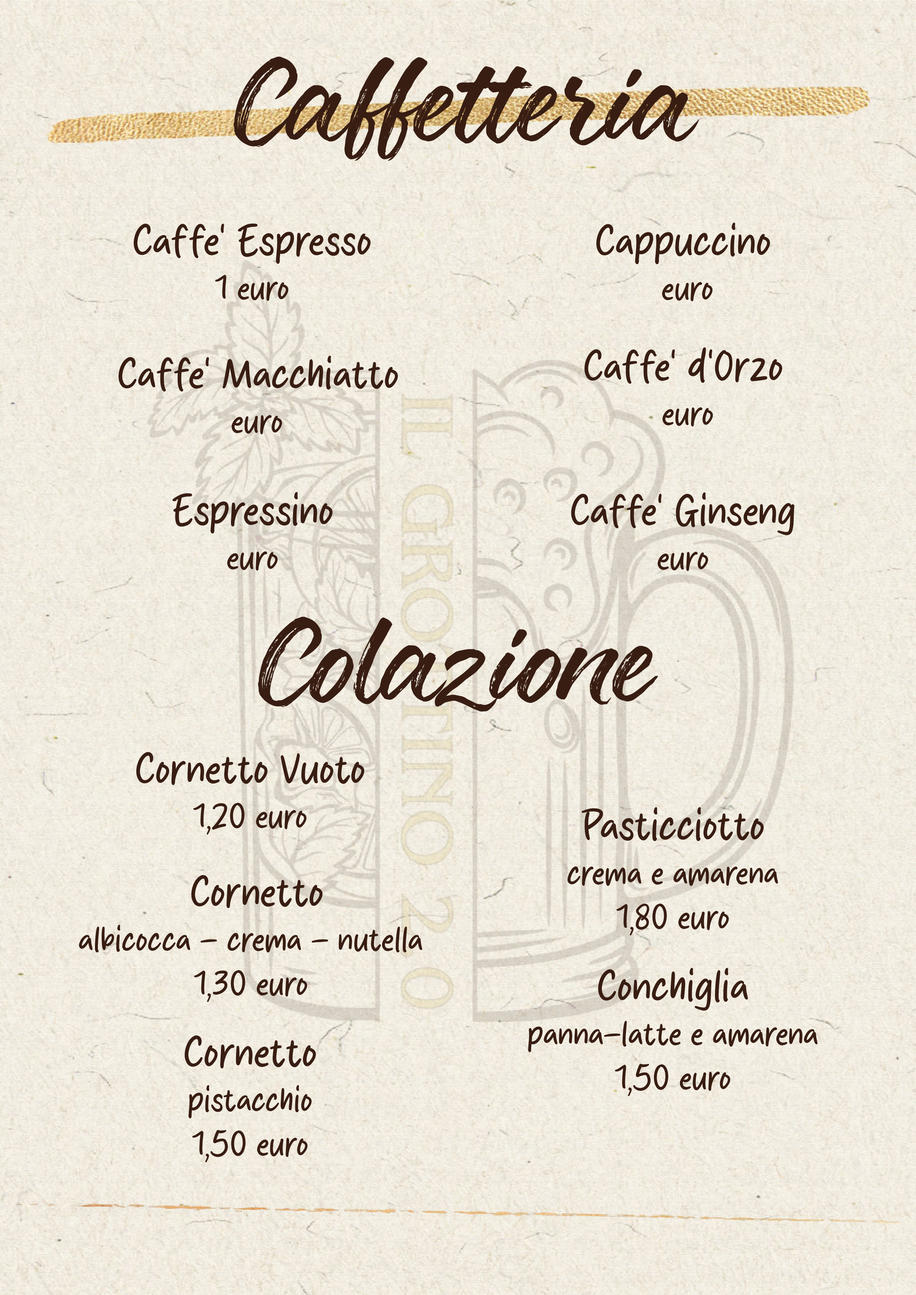
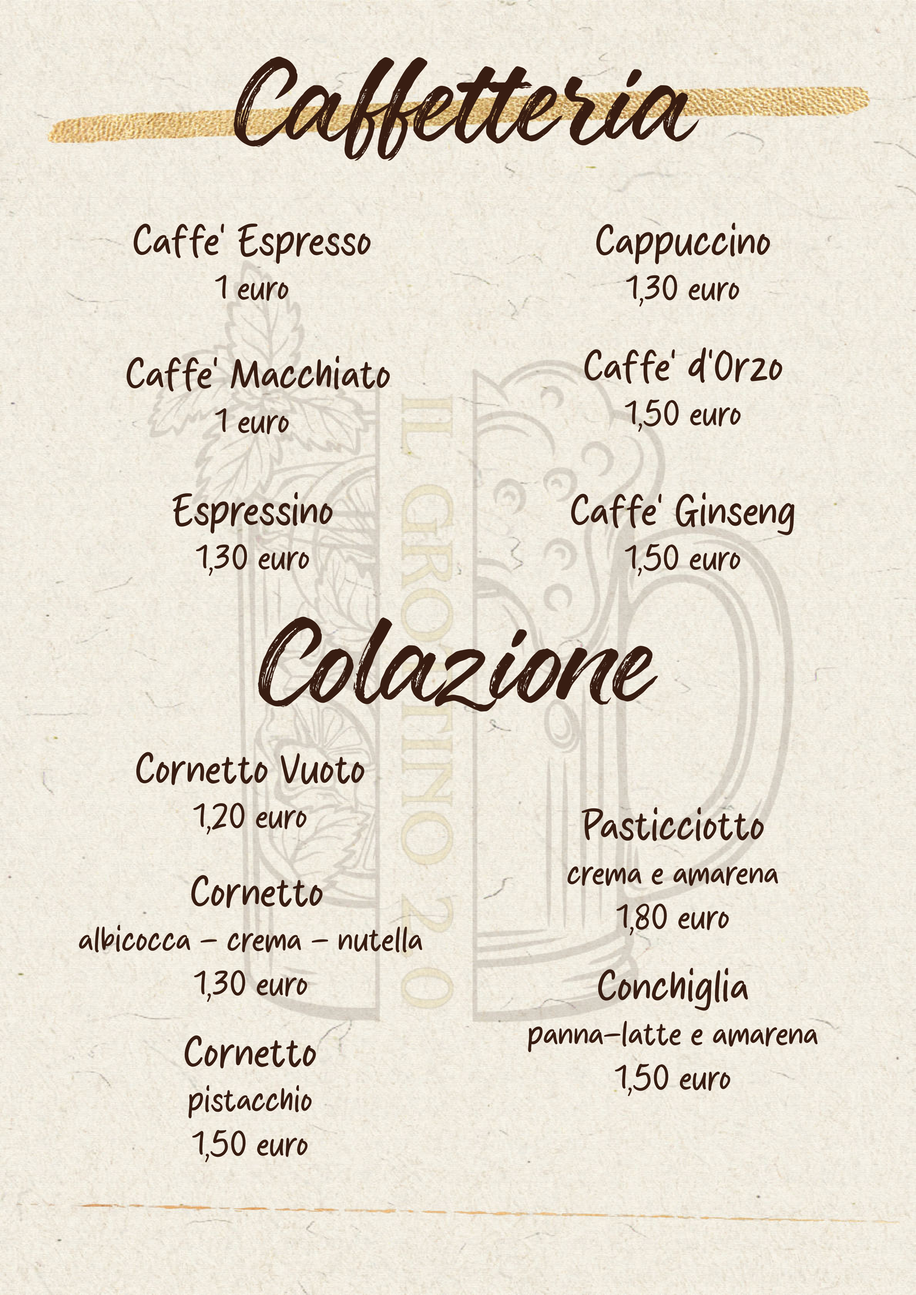
Aggiunta di nuovi elementi al menu, aggiornamento prezzi, correzione errori.

diff --git a/index.html b/index.html
@@ -18,6 +18,8 @@
         <img src="img/pagina_8.png" alt="Pagina 8" class="menu-image">
         <img src="img/pagina_9.png" alt="Pagina 9" class="menu-image">
         <img src="img/pagina_10.png" alt="Pagina 10" class="menu-image">
+        <img src="img/pagina_11.png" alt="Pagina 11" class="menu-image">
+        <img src="img/pagina_12.png" alt="Pagina 12" class="menu-image">
     </div>
 </body>
 </html>
